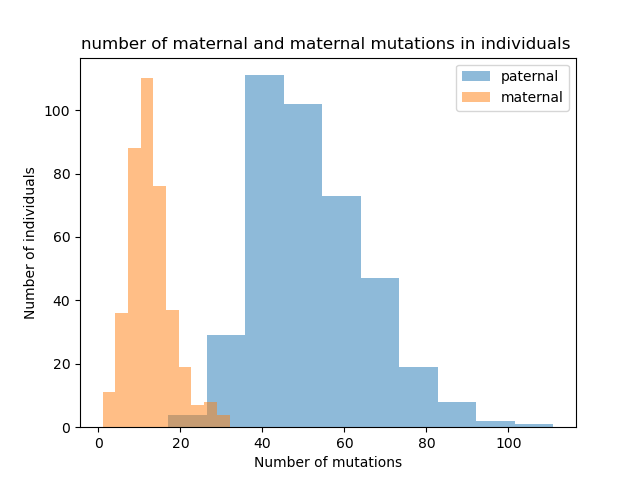
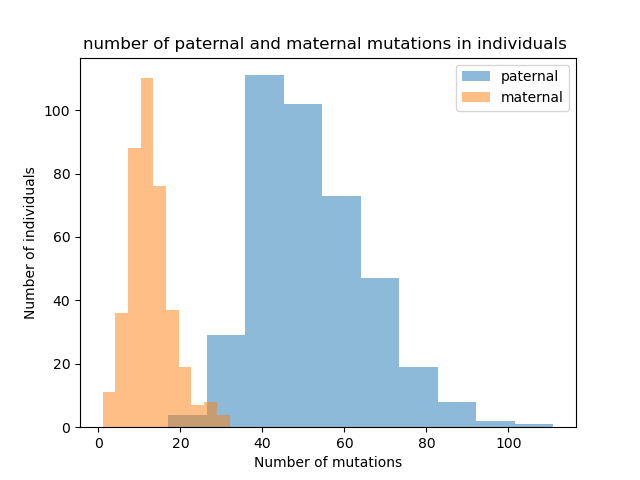
try6

Changed region(s): [[0.125, 0.0625, 0.9062, 0.125]]

diff --git a/day5-lunch/linear_regression.py b/day5-lunch/linear_regression.py
@@ -22,7 +22,7 @@ fig, ax  = plt.subplots()
 ax.scatter(df["f_age"], df["f_count"],s=10)
 ax.set_xlabel("father age")
 ax.set_ylabel("paternal mutation count")
-ax.title.set_text("the relationship between mother age and number of paternal mutations")
+ax.title.set_text("the relationship between mother age and number of maternal mutations")
 plt.savefig("ex2_b.png")
 plt.close(fig)
 
@@ -38,7 +38,7 @@ ax.hist(df["m_count"], alpha = 0.5, label = "maternal")
 ax.set_xlabel("Number of mutations")
 ax.set_ylabel("Number of individuals")
 ax.legend()
-ax.title.set_text("number of maternal and maternal mutations in individuals ")
+ax.title.set_text("number of paternal and maternal mutations in individuals ")
 plt.savefig("ex2_c.png")
 
 #print(stats.ttest_ind(df["m_count"],df["f_count"]))
